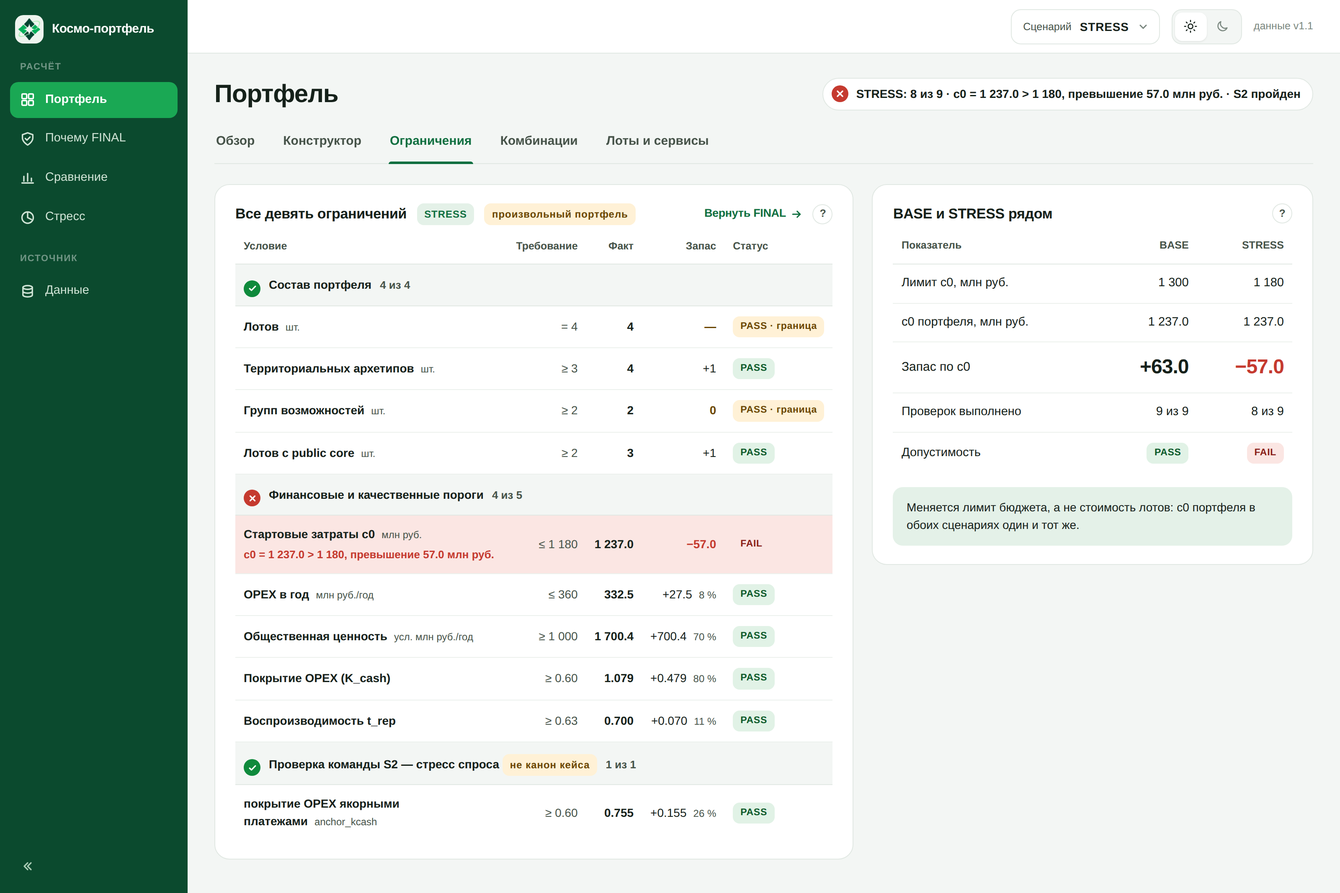
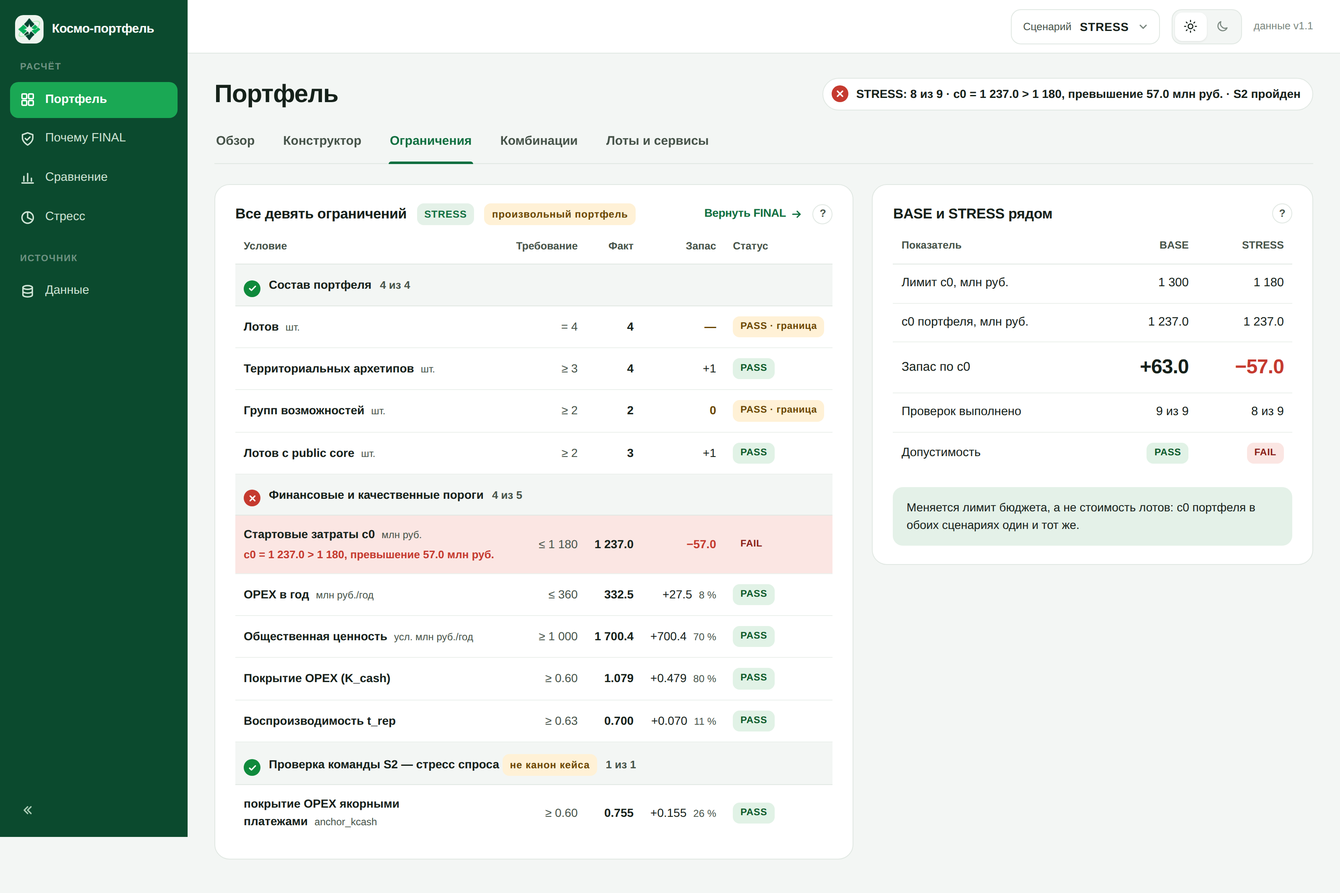
Pin the sidebar, stop clipping tile legends, and name combinations by composition
Three fixes, each reproduced before and after with Playwright.

**Collapse button reachable on every page.** `.side` stretched to the height of
the document, so the button (margin-top:auto) sat at the bottom of the page,
not the viewport. Measured at 1000px tall: it was off-screen on overview,
checks, combos, lots and why/decision, and visible only where the page happened
to fit — which is why it looked like it worked on Сравнение alone. The sidebar
is now sticky at top:0 with height:100vh, so the button is in view on all 11
routes (its inner sticky wrapper became redundant and was dropped).

**Tile legends no longer clipped.** `.seglbl` was `white-space:nowrap` in a flex
row; the c0 tile's legend measured 217px inside a 209px tile, cutting off
"запас 160.0" exactly as reported. The row now wraps while each label stays
intact. A sweep across 5 widths × 15 tabs finds no clipped element anywhere,
scrollable containers excluded.

**Combinations are named by composition, never as versions.** V1–V8 no longer
appear anywhere on screen: the alternatives table is headed "Состав и режимы"
and labelled by chips, the comparator chips and the win/lose headings read the
difference from FINAL (e.g. "AGRI, TRANS → C") via the existing describeChange,
and the stress and compare tables drop the name column. The two Why-FINAL texts
that named V7/V8 now describe the mode change instead, and V8's note in
config/alternatives.json says "математический лидер" — the only line this
[…]

Changed region(s): [[0.0, 0.9278, 0.1562, 1.0]]

diff --git a/app/static/app.js b/app/static/app.js
@@ -71,6 +71,10 @@ const modesOf = (c) => c.selection.map((s) => s.mode).join('');
 const lotsOf = (c) => c.selection.map((s) => s.lot).join(' · ');
 const help = (text) => `<span class="help"><i>?</i><div class="pop">${text}</div></span>`;
 const tag = (t, cls = '') => `<span class="tag${cls ? ' ' + cls : ''}">${esc(t)}</span>`;
+// Итоговый портфель помечается заливным бейджем: чип того же вида, что у лотов,
+// читался как пятый лот. Комбинации называются составом и режимами, а не версиями.
+const finBadge = () => `<span class="fin">${ICON.tick}FINAL</span>`;
+const isFinalId = (id) => id === state.data?.final;
 const more = (tab, label, page = null) => `<a class="more" data-tab="${tab}"${page ? ` data-page="${page}"` : ''}>${label} ${ICON.arrow}</a>`;
 
 // localStorage может быть недоступен (приватный режим, запрет cookies) — интерфейс работает и без памяти между сессиями
@@ -159,7 +163,11 @@ const gateHead = (d) => (d.meta.gates || []).map((g) => `<th>S2 ${OP[g.op]} ${fm
 const gateCells = (c) => gatesOf(c).map((g) => `<td>${stChip(g.ok, `${g.ok ? 'PASS' : 'FAIL'} · ${fmt(g.fact, 2)}`)}</td>`).join('');
 const gateHelp = (d) => (d.meta.gates || []).map((g) => ` Проверка команды S2 (не канон кейса, диагностика): ${esc(g.label)} — ${g.metric} ${OP[g.op]} ${fmt(g.threshold, 2)}. ${esc(g.rationale)}${d.meta.gates_filter ? ' Сейчас включён режим «S2 как фильтр»: комбинации, не прошедшие S2, в ранжировании не участвуют и показаны серым.' : ' На ранг и балл S2 не влияет; переключатель «S2 как фильтр» на вкладке «Комбинации» показывает, как изменился бы список.'}`).join('');
 const gateFailText = (g) => `${gateName(g)}: ${fmt(g.fact, 3)} ${g.op === '<=' ? '>' : '<'} ${fmt(g.threshold, 2)}`;
-const altName = (id) => (state.data.alternatives || []).find((a) => a.id === id)?.name || null;
+// Альтернатива подписывается отличием от итогового портфеля, а не именем версии.
+const cmpLabel = (a) => {
+  const c = combo(a.id), fin = combo(state.data.final);
+  return c && fin ? describeChange(fin, c) : a.name;
+};
 // причина провала STRESS коротко («c0», «лотов с public core»…) для чипа FAIL в таблицах
 const stressWhy = (c) => { const bad = checksOf(c, 'STRESS').filter((r) => !r.ok); return bad.some((r) => r.id === 'c0_limit') ? 'c0' : SHORT[bad[0]?.id] || ''; };
 // запас по проверке: для «≤» порог − факт, для «≥» факт − порог, для «=» 0 при совпадении
@@ -195,7 +203,7 @@ function renderChrome() {
 }
 const tabsHtml = (page) => `<nav class="tabs">${TABS[page].map(([k, t]) => `<a data-tab="${k}" class="${k === curTab(page) ? 'on' : ''}">${t}</a>`).join('')}</nav>`;
 const pageHead = (title, pill, page = state.page) => `<div class="top"><h1>${title}</h1>${pill}</div>${tabsHtml(page)}`;
-const portfolioTag = () => (isFinal() ? tag('FINAL') : tag('произвольный портфель', 'warn') + `<a class="more" data-final="1">Вернуть FINAL ${ICON.arrow}</a>`);
+const portfolioTag = () => (isFinal() ? finBadge() : tag('произвольный портфель', 'warn') + `<a class="more" data-final="1">Вернуть FINAL ${ICON.arrow}</a>`);
 
 // ---------- страница «Портфель» ----------
 function renderPortfolio() {
@@ -300,9 +308,9 @@ ${bad.length ? `<ul class="res-f">${bad.map((r) => `<li>${esc(failText(r))}</li>
     combos() {
       const helpSug = `Инструмент перебирает все ${fmt(t.combinations, 0)} комбинаций «4 лота × режимы» через канонический <b>case_core.py</b>, оставляет ${t.stress_feasible} допустимых в STRESS${d.meta.gates_filter ? `, из них ${t.ranked} проходят проверку команды S2,` : ''} и ранжирует их моделью выбора команды: min–max нормализация по ${t.ranked} допустимым вариантам, веса — ${weightsTxt}. Здесь предложены лучшие по баллу наборы лотов относительно показанного портфеля (клик по строке выбирает), отличия показаны относительно него: жёлтый лот — замена, жёлтая буква — другой режим. Серая строка — максимум ценности среди проходящих BASE, но она не проходит STRESS и не предлагается. Варианты, стоящие выше FINAL по баллу, не скрываются — см. «Почему FINAL».${gateHelp(d)}`;
       const rows = [...d.suggestions, ...d.rejected.filter((id) => !d.suggestions.includes(id))].map((id) => {
-        const c = combo(id), isSel = id === state.selected, dim = !(c.admitted ?? c.ok.STRESS), nm = altName(id);
+        const c = combo(id), isSel = id === state.selected, dim = !(c.admitted ?? c.ok.STRESS), nm = isFinalId(id) ? finBadge() : '';
         const why = isSel ? 'показана' : describeChange(s, c) + (!c.ok.STRESS ? ' · не проходит STRESS' : dim ? ' · не проходит S2' : '');
-        return `<tr class="pick${isSel ? ' hl' : ''}${dim ? ' dim' : ''}" data-id="${esc(id)}"><td><span class="radio${isSel ? ' on' : ''}"></span></td><td>${chips(c, s)}${nm ? ` <span class="vn">${nm}</span>` : ''}</td><td class="why">${esc(why)}</td><td class="num">${fmt(c.metrics.c0)}</td><td class="num">${fmt(c.metrics.vpub)}</td><td class="num">${fmt(c.metrics.kcash, 2)}</td><td>${stChip(c.ok.BASE, c.ok.BASE ? 'PASS' : 'FAIL')}</td><td>${stChip(c.ok.STRESS, c.ok.STRESS ? 'PASS' : 'FAIL · ' + stressWhy(c))}</td>${gateCells(c)}<td class="num">${isSel ? '<b>' + c.score.toFixed(2) + '</b>' : c.score.toFixed(2)}${c.rank ? `<span class="rk">${c.rank}-е</span>` : ''}</td></tr>`;
+        return `<tr class="pick${isSel ? ' hl' : ''}${dim ? ' dim' : ''}" data-id="${esc(id)}"><td><span class="radio${isSel ? ' on' : ''}"></span></td><td>${chips(c, s)}${nm ? ' ' + nm : ''}</td><td class="why">${esc(why)}</td><td class="num">${fmt(c.metrics.c0)}</td><td class="num">${fmt(c.metrics.vpub)}</td><td class="num">${fmt(c.metrics.kcash, 2)}</td><td>${stChip(c.ok.BASE, c.ok.BASE ? 'PASS' : 'FAIL')}</td><td>${stChip(c.ok.STRESS, c.ok.STRESS ? 'PASS' : 'FAIL · ' + stressWhy(c))}</td>${gateCells(c)}<td class="num">${isSel ? '<b>' + c.score.toFixed(2) + '</b>' : c.score.toFixed(2)}${c.rank ? `<span class="rk">${c.rank}-е</span>` : ''}</td></tr>`;
       }).join('');
       const gatesToggle = (d.meta.gates || []).length ? `<label class="tog"><input type="checkbox" id="gates-filter"${d.meta.gates_filter ? ' checked' : ''}> S2 как фильтр</label>` : '';
       return `<div class="card"><h2>Предложенные комбинации ${portfolioTag()}${gatesToggle}${help(helpSug)}</h2>
@@ -374,9 +382,9 @@ function renderWhy() {
 <div class="why-hero"><div class="why-txt"><div class="why-st">${esc(why.status || 'Выбранный командой вариант после управленческого отбора.')}</div>${why.headline ? `<p>${esc(why.headline)}</p>` : ''}${why.pareto ? `<p class="why-pareto">${esc(why.pareto)}</p>` : ''}</div>
 <div class="why-stats"><div class="ws"><span>Состав</span>${chips(f)}</div><div class="ws"><span>Место по баллу</span><b>${f.rank ?? '—'}<small>из ${t.ranked}</small></b></div><div class="ws"><span>Запас STRESS по c0</span><b>${signed(mS)}<small>млн руб.</small></b></div><div class="ws"><span>Операционный баланс</span><b>${signed(-f.metrics.opex_gap)}<small>млн руб./год</small></b></div></div></div></div>`;
       const alt = (d.alternatives || []).map((a) => combo(a.id) && { ...a, c: combo(a.id) }).filter(Boolean).sort((a, b) => (a.id === d.final ? -1 : b.id === d.final ? 1 : (b.c.rank ?? 1e9) === (a.c.rank ?? 1e9) ? 0 : (a.c.rank ?? 1e9) - (b.c.rank ?? 1e9)));
-      const rows = alt.map(({ name, id, note, c }) => `<tr class="${id === d.final ? 'hl' : ''}"><td><div class="alt-h">${chips(c, f)}<span class="vn">${esc(name)}</span></div><div class="sub">${esc(note)}</div></td><td class="num">${fmt(c.metrics.c0)}</td><td class="num">${fmt(c.metrics.opex, 2)}</td><td class="num">${fmt(c.metrics.vpub)}</td><td class="num">${fmt(c.metrics.cash)}</td><td class="num">${fmt(c.metrics.kcash, 3)}</td><td class="num ${c.ok.STRESS ? '' : 'neg'}">${signed(val(c, 'margin'))}</td><td>${stChip(c.ok.BASE, c.ok.BASE ? 'PASS' : 'FAIL')} ${stChip(c.ok.STRESS, c.ok.STRESS ? 'PASS' : 'FAIL')}</td><td class="num">${c.rank ? `<b>${c.score.toFixed(3)}</b><span class="rk">${c.rank}-е</span>` : '<span class="muted">без места</span>'}</td></tr>`).join('');
-      const table = `<div class="card"><h2>Ближайшие альтернативы${help(`Именованные варианты записки из <b>config/alternatives.json</b>, все посчитаны по одним правилам. Жёлтый лот — отличие от FINAL по составу, жёлтая буква — по режиму. Место — среди ${t.ranked} STRESS-допустимых комбинаций; вариант, не проходящий STRESS, места не получает. Варианты выше FINAL по баллу показаны, а не скрыты.`)}</h2>
-<div class="tw wide"><table class="alts"><tr><th>Вариант</th><th class="num">c0</th><th class="num">OPEX</th><th class="num">Ценность</th><th class="num">Cash</th><th class="num">K_cash</th><th class="num">Запас STRESS</th><th>BASE · STRESS</th><th class="num">Балл · место</th></tr>${rows}</table></div></div>`;
+      const rows = alt.map(({ name, id, note, c }) => `<tr class="${id === d.final ? 'hl' : ''}"><td><div class="alt-h">${chips(c, f)}${id === d.final ? finBadge() : ''}</div><div class="sub">${esc(note)}</div></td><td class="num">${fmt(c.metrics.c0)}</td><td class="num">${fmt(c.metrics.opex, 2)}</td><td class="num">${fmt(c.metrics.vpub)}</td><td class="num">${fmt(c.metrics.cash)}</td><td class="num">${fmt(c.metrics.kcash, 3)}</td><td class="num ${c.ok.STRESS ? '' : 'neg'}">${signed(val(c, 'margin'))}</td><td>${stChip(c.ok.BASE, c.ok.BASE ? 'PASS' : 'FAIL')} ${stChip(c.ok.STRESS, c.ok.STRESS ? 'PASS' : 'FAIL')}</td><td class="num">${c.rank ? `<b>${c.score.toFixed(3)}</b><span class="rk">${c.rank}-е</span>` : '<span class="muted">без места</span>'}</td></tr>`).join('');
+      const table = `<div class="card"><h2>Ближайшие альтернативы${help(`Сопоставимые варианты записки из <b>config/alternatives.json</b>, подписанные составом и режимами, все посчитаны по одним правилам. Жёлтый лот — отличие от FINAL по составу, жёлтая буква — по режиму. Место — среди ${t.ranked} STRESS-допустимых комбинаций; вариант, не проходящий STRESS, места не получает. Варианты выше FINAL по баллу показаны, а не скрыты.`)}</h2>
+<div class="tw wide"><table class="alts"><tr><th>Состав и режимы</th><th class="num">c0</th><th class="num">OPEX</th><th class="num">Ценность</th><th class="num">Cash</th><th class="num">K_cash</th><th class="num">Запас STRESS</th><th>BASE · STRESS</th><th class="num">Балл · место</th></tr>${rows}</table></div></div>`;
       let wl = '';
       if (cmp) {
         const win = [], lose = [], even = [];
@@ -385,9 +393,9 @@ function renderWhy() {
           const item = `<li><span>${label}</span><em><b>${fmt(a, dec)}</b> против ${fmt(b, dec)}</em><i>${signed(dlt, dec)}${unit ? ' ' + unit : ''}</i></li>`;
           if (Math.abs(dlt) < 1e-9) even.push(item); else if (dlt * dir > 0) win.push(item); else lose.push(item);
         }
-        wl = `<div class="card"><h2>Что выигрываем и что теряем <span class="cmp-pick">${alts.map((a) => `<span class="chip${a.name === state.comparator ? ' on' : ''}" data-cmp="${esc(a.name)}">${esc(a.name)}</span>`).join('')}</span>${help('FINAL против выбранной альтернативы: каждый показатель попадает в «выигрываем» или «теряем» по направлению критерия (ценность, cash, K_cash, запас и public core — больше лучше; c0 и OPEX — меньше лучше). Разницы считаются из показателей обеих комбинаций. Текст «цена решения» — формулировка записки.')}</h2>
-<div class="wl"><div class="wl-col win"><div class="wl-h">${ICON.tick} FINAL выигрывает у ${esc(cmpA.name)}</div><ul>${win.join('') || '<li class="none">ничего</li>'}</ul></div><div class="wl-col lose"><div class="wl-h">FINAL теряет против ${esc(cmpA.name)}</div><ul>${lose.join('') || '<li class="none">ничего</li>'}</ul>${even.length ? `<div class="wl-even">Одинаково: ${even.length} показ.</div>` : ''}</div></div>
-<div class="cmp-note">${chips(cmp, f)} <span class="vn">${esc(cmpA.name)}</span> — ${esc(cmpA.note)}</div>
+        wl = `<div class="card"><h2>Что выигрываем и что теряем <span class="cmp-pick">${alts.map((a) => `<span class="chip${a.name === state.comparator ? ' on' : ''}" data-cmp="${esc(a.name)}">${esc(cmpLabel(a))}</span>`).join('')}</span>${help('FINAL против выбранной альтернативы: каждый показатель попадает в «выигрываем» или «теряем» по направлению критерия (ценность, cash, K_cash, запас и public core — больше лучше; c0 и OPEX — меньше лучше). Разницы считаются из показателей обеих комбинаций. Текст «цена решения» — формулировка записки.')}</h2>
+<div class="wl"><div class="wl-col win"><div class="wl-h">${ICON.tick} FINAL выигрывает у варианта «${esc(cmpLabel(cmpA))}»</div><ul>${win.join('') || '<li class="none">ничего</li>'}</ul></div><div class="wl-col lose"><div class="wl-h">FINAL теряет против варианта «${esc(cmpLabel(cmpA))}»</div><ul>${lose.join('') || '<li class="none">ничего</li>'}</ul>${even.length ? `<div class="wl-even">Одинаково: ${even.length} показ.</div>` : ''}</div></div>
+<div class="cmp-note">${chips(cmp, f)} — ${esc(cmpA.note)}</div>
 ${why.price ? `<div class="callout">${esc(why.price)}</div>` : ''}</div>`;
       }
       const rob = why.robustness ? `<div class="card"><h2>Устойчивость выбора${help('Sensitivity по полному множеству 143 STRESS-допустимых комбинаций (results/sensitivity_full.csv, tools/case02_robustness.py): изменение каждого веса на ±20 %, случайные векторы весов, запас по c0 и OPEX. Вывод записки: выбор не устойчив как математический лидер, но остаётся осознанным управленческим решением на фронте Парето.')}</h2><p class="why-rob">${esc(why.robustness)}</p></div>` : '';
@@ -402,8 +410,8 @@ ${why.price ? `<div class="callout">${esc(why.price)}</div>` : ''}</div>`;
         return `<tr><td><div class="name">${CRIT[b.key] || b.key}</div><div class="sub">${b.direction === 'max' ? 'больше — лучше' : 'меньше — лучше'} · min ${fmt(b.lo, CRIT_DEC[b.key])} · max ${fmt(b.hi, CRIT_DEC[b.key])}</div></td><td class="num">${b.weight.toFixed(2)}</td><td class="num">${fmt(b.raw, CRIT_DEC[b.key])}</td><td class="num">${b.z.toFixed(2)}</td><td>${bar(b)}</td>${c ? `<td class="num">${fmt(c.raw, CRIT_DEC[b.key])}</td><td class="num">${c.z.toFixed(2)}</td><td>${bar(c)}</td>` : ''}</tr>`;
       }).join('');
       const total = `<tr class="total"><td>Балл</td><td class="num">${bf.reduce((a, b) => a + b.weight, 0).toFixed(2)}</td><td></td><td></td><td class="num"><b>${f.score.toFixed(3)}</b>${f.rank ? `<span class="rk">${f.rank}-е</span>` : ''}</td>${cmp ? `<td></td><td></td><td class="num"><b>${cmp.score.toFixed(3)}</b>${cmp.rank ? `<span class="rk">${cmp.rank}-е</span>` : ''}</td>` : ''}</tr>`;
-      return notFinal + `<div class="card"><h2>Из чего сложился балл <span class="cmp-pick">${alts.map((a) => `<span class="chip${a.name === state.comparator ? ' on' : ''}" data-cmp="${esc(a.name)}">${esc(a.name)}</span>`).join('')}</span>${help(`Балл = Σ вес × z. Для каждого критерия z — min–max нормализация по ${t.ranked} STRESS-допустимым комбинациям: 0 — худшее значение среди них, 1 — лучшее (для c0 шкала перевёрнута). Вклад = вес × z; сумма вкладов и есть балл. Веса из <b>config/weights.json</b> (участник 3), утверждены до просмотра результата. Комбинация вне STRESS получает z по той же шкале, но места не получает.`)}</h2>
-<div class="tw wide"><table class="brk"><tr><th>Критерий</th><th class="num">Вес</th><th class="num">FINAL: значение</th><th class="num">z</th><th>Вклад</th>${cmp ? `<th class="num">${esc(cmpA.name)}: значение</th><th class="num">z</th><th>Вклад</th>` : ''}</tr>${rows}${total}</table></div></div>`;
+      return notFinal + `<div class="card"><h2>Из чего сложился балл <span class="cmp-pick">${alts.map((a) => `<span class="chip${a.name === state.comparator ? ' on' : ''}" data-cmp="${esc(a.name)}">${esc(cmpLabel(a))}</span>`).join('')}</span>${help(`Балл = Σ вес × z. Для каждого критерия z — min–max нормализация по ${t.ranked} STRESS-допустимым комбинациям: 0 — худшее значение среди них, 1 — лучшее (для c0 шкала перевёрнута). Вклад = вес × z; сумма вкладов и есть балл. Веса из <b>config/weights.json</b> (участник 3), утверждены до просмотра результата. Комбинация вне STRESS получает z по той же шкале, но места не получает.`)}</h2>
+<div class="tw wide"><table class="brk"><tr><th>Критерий</th><th class="num">Вес</th><th class="num">FINAL: значение</th><th class="num">z</th><th>Вклад</th>${cmp ? `<th class="num">${esc(cmpLabel(cmpA))}: значение</th><th class="num">z</th><th>Вклад</th>` : ''}</tr>${rows}${total}</table></div></div>`;
     },
     s2() {
       const s2 = f.s2 || {}, m = f.metrics;
@@ -480,7 +488,7 @@ function renderCompare() {
     },
     table() {
       const helpTable = `${items.length} комбинаций, посчитанных по одним правилам: предложенные относительно показанного портфеля и отвергнутая с максимумом ценности. Балл — взвешенная сумма нормированных (min–max по ${d.meta.totals.ranked} комбинациям, допустимым в STRESS${d.meta.gates_filter ? ' и прошедшим S2' : ''}) критериев с весами: ценность ${w.vpub}, c0 ${w.c0}, cash / OPEX ${w.kcash}, готовность ${w.readiness}, устойчивость ${w.resilience}, тираж ${w.scale}, запас по STRESS ${w.stress_margin}. Подсвечен показанный портфель; S2 — диагностическая проверка команды, на балл не влияет. c0, OPEX и cash — млн руб., ценность — усл. млн руб./год. Именованные варианты записки — на экране «Почему FINAL».${gateHelp(d)}`;
-      const rows = items.map((c) => `<tr class="${c.id === s.id ? 'hl' : ''}"><td>${chips(c)}${altName(c.id) ? ` <span class="vn">${altName(c.id)}</span>` : ''}</td><td class="num">${fmt(c.metrics.c0)}</td><td class="num">${fmt(c.metrics.opex)}</td><td class="num">${fmt(c.metrics.vpub)}</td><td class="num">${fmt(c.metrics.cash)}</td><td class="num">${fmt(c.metrics.kcash, 2)}</td><td class="num">${fmt(c.metrics.t_rep, 3)}</td><td>${stChip(c.ok.BASE, c.ok.BASE ? 'PASS' : 'FAIL')}</td><td>${stChip(c.ok.STRESS, c.ok.STRESS ? 'PASS' : 'FAIL · ' + stressWhy(c))}</td>${gateCells(c)}<td class="num">${c.id === s.id ? '<b>' + c.score.toFixed(2) + '</b>' : c.score.toFixed(2)}${c.rank ? `<span class="rk">${c.rank}-е</span>` : ''}</td></tr>`).join('');
+      const rows = items.map((c) => `<tr class="${c.id === s.id ? 'hl' : ''}"><td>${chips(c)}${isFinalId(c.id) ? ' ' + finBadge() : ''}</td><td class="num">${fmt(c.metrics.c0)}</td><td class="num">${fmt(c.metrics.opex)}</td><td class="num">${fmt(c.metrics.vpub)}</td><td class="num">${fmt(c.metrics.cash)}</td><td class="num">${fmt(c.metrics.kcash, 2)}</td><td class="num">${fmt(c.metrics.t_rep, 3)}</td><td>${stChip(c.ok.BASE, c.ok.BASE ? 'PASS' : 'FAIL')}</td><td>${stChip(c.ok.STRESS, c.ok.STRESS ? 'PASS' : 'FAIL · ' + stressWhy(c))}</td>${gateCells(c)}<td class="num">${c.id === s.id ? '<b>' + c.score.toFixed(2) + '</b>' : c.score.toFixed(2)}${c.rank ? `<span class="rk">${c.rank}-е</span>` : ''}</td></tr>`).join('');
       return `<div class="card"><h2>Комбинации в сравнении${help(helpTable)}</h2>
 <div class="tw wide"><table><tr><th>Состав и режимы</th><th class="num">c0</th><th class="num">OPEX</th><th class="num">Ценность</th><th class="num">Cash</th><th class="num">Cash / OPEX</th><th class="num">t_rep</th><th>BASE</th><th>STRESS</th>${gateHead(d)}<th class="num">Балл · место</th></tr>${rows}</table></div></div>`;
     },
@@ -516,7 +524,7 @@ function renderStress() {
         const cells = all.map((k) => cell(rs[k]));
         const badCols = all.filter((k, i) => cells[i].cls === 'bad');
         const weakest = badCols.length ? badCols.map((k) => short[k]).join(' · ') + ' · нарушение' : all.filter((k, i) => cells[i].cls === 'thin').map((k) => short[k]).join(' · ') || short[all[cells.map((x) => x.rel).indexOf(Math.min(...cells.map((x) => x.rel)))]];
-        return `<tr class="${c.id === s.id ? 'hl' : ''}"><td><div class="name">${lotsOf(c)}</div><div class="sub">${modesOf(c)}${c.id === s.id ? ' · показана' : ''}${altName(c.id) ? ' · ' + altName(c.id) : ''}</div></td>${cells.map((x) => `<td><span class="cell ${x.cls}">${x.text}</span></td>`).join('')}<td>${weakest}</td></tr>`;
+        return `<tr class="${c.id === s.id ? 'hl' : ''}"><td><div class="name">${lotsOf(c)}</div><div class="sub">${modesOf(c)}${c.id === s.id ? ' · показана' : ''}${isFinalId(c.id) ? ' · FINAL' : ''}</div></td>${cells.map((x) => `<td><span class="cell ${x.cls}">${x.text}</span></td>`).join('')}<td>${weakest}</td></tr>`;
       }).join('');
       const helpMatrix = `<div class="lg"><span><i class="sw ok"></i>запас ≥ ${Math.round(thin * 100)} %</span><span><i class="sw thin"></i>тонкий запас или граница</span><span><i class="sw bad"></i>нарушение</span></div>В ячейке — факт минус порог и доля от порога в сценарии STRESS (c0 ≤ ${fmt(d.meta.scenarios.STRESS.c0_max, 0)}). Состав (4 лота, архетипы, группы) выполнен у всех и в таблицу не вынесен. «Слабое место» — нарушенное или самое тонкое условие. Счётчик в заголовке относится к сравниваемым вариантам, а не к FINAL.${gateHelp(d)}`;
       const gateHeads = (d.meta.gates || []).map((g) => `<th>S2: якорь / OPEX ${OP[g.op]} ${fmt(g.threshold, 2)}</th>`).join('');

diff --git a/app/static/styles.css b/app/static/styles.css
@@ -31,8 +31,9 @@ button{font-family:inherit}
 .body{min-width:0;display:flex;flex-direction:column}
 
 /* ---- боковая панель ---- */
-.side{background:var(--side);color:var(--side-ink);display:flex;flex-direction:column;padding:14px 12px 12px;min-height:100vh}
-.side-top{position:sticky;top:14px;display:flex;flex-direction:column}
+.side{background:var(--side);color:var(--side-ink);display:flex;flex-direction:column;padding:14px 12px 12px;
+      position:sticky;top:0;align-self:start;height:100vh;overflow-y:auto}
+.side-top{display:flex;flex-direction:column}
 .side .brand{display:flex;align-items:center;gap:10px;padding:4px 6px 18px;color:#fff;font-family:var(--f-display);font-size:15px;font-weight:700;letter-spacing:-.02em;white-space:nowrap}
 .side .brand i{width:34px;height:34px;border-radius:10px;background:#eef4ee;display:grid;place-items:center;flex:none}
 .side .brand img{width:26px;height:26px;object-fit:contain}
@@ -159,7 +160,8 @@ h1{font-family:var(--f-display);font-size:30px;font-weight:700;letter-spacing:-.
 .tile .tl{display:flex;justify-content:space-between;align-items:center;font-size:13.5px;color:var(--ink);font-weight:600}
 .seg{display:flex;height:8px;border-radius:4px;overflow:hidden;margin-top:8px;background:var(--rule-2)}
 .seg i{display:block;height:100%}.seg .req{background:var(--seg-a)}.seg .sur{background:var(--seg-b)}
-.seglbl{display:flex;justify-content:space-between;gap:6px;font-size:12px;font-weight:500;color:var(--ink-2);margin-top:6px;white-space:nowrap;font-variant-numeric:tabular-nums}
+.seglbl{display:flex;justify-content:space-between;flex-wrap:wrap;gap:2px 10px;font-size:12px;font-weight:500;color:var(--ink-2);margin-top:6px;font-variant-numeric:tabular-nums}
+.seglbl>span{display:inline-flex;align-items:center;white-space:nowrap;min-width:0}
 .seglbl .sw{width:8px;height:8px;border-radius:2px;margin-right:5px}
 .tile .tv{font-family:var(--f-num);font-size:34px;font-weight:700;letter-spacing:-.03em;line-height:1.05;font-variant-numeric:tabular-nums}
 .tile .tv small{font-family:var(--f-ui);font-size:12.5px;font-weight:500;color:var(--ink-2);margin-left:6px;letter-spacing:0;white-space:nowrap}
@@ -259,8 +261,9 @@ tr.hl .lot{background:var(--hl-chip)}
 
 /* ---- метки вариантов, места, подсказки-предположения ---- */
 .tag.warn{background:var(--warn-soft);color:var(--warn-ink)}
-.vn{display:inline-flex;align-items:center;font-size:11.5px;font-weight:700;letter-spacing:.04em;padding:3px 7px;border-radius:7px;background:var(--rule-2);color:var(--ink-2);margin-left:6px;vertical-align:1px}
-tr.hl .vn{background:var(--hl-chip);color:var(--ink)}
+.fin{display:inline-flex;align-items:center;gap:5px;font-size:11px;font-weight:700;letter-spacing:.06em;text-transform:uppercase;padding:4px 10px 4px 8px;border-radius:999px;background:var(--brand);color:var(--on-brand);white-space:nowrap;vertical-align:1px}
+.fin svg{width:11px;height:11px;flex:none}
+tr.hl .fin,.alt-h .fin{margin-left:2px}
 .rk{display:inline-block;margin-left:8px;font-size:12px;font-weight:600;color:var(--ink-2)}
 .hyp{display:inline-block;font-size:11px;font-weight:600;padding:2px 6px;border-radius:6px;background:var(--warn-soft);color:var(--warn-ink);margin-left:4px;vertical-align:1px}
 .muted{color:var(--muted)}
